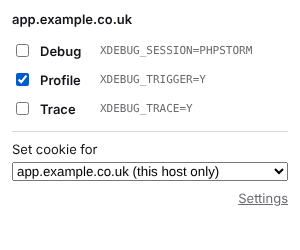
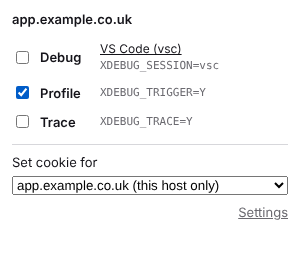
IDE presets for XDEBUG_SESSION, VS Code (vsc) by default
- XDEBUG_SESSION value is the IDE key: presets VS Code (vsc, default
  php.debug.ideKey of vscode-php-debug), PhpStorm, NetBeans, Eclipse,
  MacGDBp, or a custom key
- options page opens after install with "Choose your IDE" block
- popup shows the selected IDE with a link to settings
- hints: xdebug.trigger_value may be a comma separated list (Xdebug 3.1+)

Claude-Session: https://claude.ai/code/session_011ZZMU6eeKUpne5HfQBAxoT

diff --git a/options.js b/options.js
@@ -13,7 +13,16 @@ async function saveOptions(e) {
     };
     for (let trigger of TRIGGERS) {
         options[trigger.key] = document.querySelector(".trigger-name[data-key=" + trigger.key + "]").value.trim();
-        options[trigger.key + '_value'] = document.querySelector(".trigger-value[data-key=" + trigger.key + "]").value.trim();
+        let value = document.querySelector(".trigger-value[data-key=" + trigger.key + "]").value.trim();
+        let ide = document.querySelector(".trigger-ide[data-key=" + trigger.key + "]");
+        if (trigger.ide && ide.value) {
+            // Preset selected, custom input is ignored
+            value = ide.value;
+        }
+        options[trigger.key + '_value'] = value;
+        if (trigger.ide) {
+            options[IDE_CHOSEN_KEY] = true;
+        }
     }
     console.debug(OPTIONS_LOG_PREFIX, 'saving', options);
 
@@ -32,7 +41,9 @@ async function restoreOptions() {
     for (let trigger of triggers) {
         let rows = template.content.cloneNode(true);
         rows.querySelector(".trigger-name-label").textContent = trigger.label + ' cookie name (usually: ' + trigger.defaultName + ')';
-        rows.querySelector(".trigger-value-label").textContent = trigger.label + ' cookie value (must match xdebug.trigger_value, default: ' + trigger.defaultValue + ')';
+        rows.querySelector(".trigger-value-label").textContent = trigger.ide
+            ? 'Custom IDE key (must match xdebug.trigger_value if it is set)'
+            : trigger.label + ' cookie value (must match one of xdebug.trigger_value values if it is set, default: ' + trigger.defaultValue + ')';
         let name = rows.querySelector(".trigger-name");
         let value = rows.querySelector(".trigger-value");
         name.dataset.key = value.dataset.key = trigger.key;
@@ -40,13 +51,44 @@ async function restoreOptions() {
         value.placeholder = trigger.defaultValue;
         name.value = trigger.name;
         value.value = trigger.value;
+        if (trigger.ide) {
+            setupIdeSelect(rows, trigger);
+        }
         container.appendChild(rows);
     }
+
+    let config = await api.storage.sync.get(IDE_CHOSEN_KEY);
+    document.querySelector(".welcome-row").hidden = !!config[IDE_CHOSEN_KEY];
 
     document.querySelector(".cookie-XDEBUG_PROFILE-on-color[value="+ colors.on +"]").checked = true;
     document.querySelector(".cookie-XDEBUG_PROFILE-off-color[value="+ colors.off +"]").checked = true;
 
     await renderPermission();
+}
+
+// IDE presets select; "Custom key" shows the text input for the value
+function setupIdeSelect(rows, trigger) {
+    let select = rows.querySelector(".trigger-ide");
+    let valueRow = rows.querySelector(".trigger-value-row");
+    select.dataset.key = trigger.key;
+    for (let preset of IDE_PRESETS) {
+        select.appendChild(new Option(preset.label + ' (' + preset.key + ')', preset.key));
+    }
+    select.appendChild(new Option('Custom key', ''));
+    let preset = getIdePreset(trigger.value);
+    select.value = preset ? preset.key : '';
+    rows.querySelector(".ide-row").hidden = false;
+    rows.querySelector(".ide-hint-row").hidden = false;
+    valueRow.hidden = !!select.value;
+    select.addEventListener("change", function() {
+        console.debug(OPTIONS_LOG_PREFIX, 'IDE selected:', select.value || '(custom)');
+        valueRow.hidden = !!select.value;
+        if (!select.value) {
+            let input = valueRow.querySelector(".trigger-value");
+            input.placeholder = 'e.g. VSCODE';
+            input.focus();
+        }
+    });
 }
 
 async function renderPermission() {
@@ -65,6 +107,7 @@ async function onGrantClick() {
 }
 
 function showSuccess() {
+    document.querySelector(".welcome-row").hidden = true;
     let messageClass = document.querySelector(".saved-successfully").classList;
 
     messageClass.add(visibilityClass);

diff --git a/common.js b/common.js
@@ -7,13 +7,35 @@ const IS_FIREFOX = typeof api.runtime.getBrowserInfo === 'function';
 
 // Supported Xdebug triggers. Storage keys of PROFILE are the same as in old versions.
 const TRIGGERS = [
-    { id: 'debug', label: 'Debug', badge: 'D', key: 'cookie_XDEBUG_SESSION', defaultName: 'XDEBUG_SESSION', defaultValue: 'PHPSTORM' },
+    // XDEBUG_SESSION value is passed to the IDE as IDE key (matters only for DBGp proxy or picky IDEs)
+    { id: 'debug', label: 'Debug', badge: 'D', key: 'cookie_XDEBUG_SESSION', defaultName: 'XDEBUG_SESSION', defaultValue: 'vsc', ide: true },
     { id: 'profile', label: 'Profile', badge: 'P', key: 'cookie_XDEBUG_PROFILE', defaultName: 'XDEBUG_PROFILE', defaultValue: 'Y' },
     { id: 'trace', label: 'Trace', badge: 'T', key: 'cookie_XDEBUG_TRACE', defaultName: 'XDEBUG_TRACE', defaultValue: 'Y' }
 ];
 const DEFAULT_ON_COLOR = 'red';
 const DEFAULT_OFF_COLOR = 'light';
 const ALL_URLS = { origins: ['<all_urls>'] };
+// Default IDE keys: VS Code - php.debug.ideKey of xdebug/vscode-php-debug,
+// others - as in Xdebug helper extension. Any other value is a custom key.
+const IDE_PRESETS = [
+    { label: 'VS Code', key: 'vsc' },
+    { label: 'PhpStorm', key: 'PHPSTORM' },
+    { label: 'NetBeans', key: 'netbeans-xdebug' },
+    { label: 'Eclipse', key: 'XDEBUG_ECLIPSE' },
+    { label: 'MacGDBp', key: 'macgdbp' }
+];
+// Set when the user has chosen the IDE on the options page (welcome block is shown until then)
+const IDE_CHOSEN_KEY = 'ide_chosen';
+
+function getIdePreset(key) {
+    return IDE_PRESETS.find(preset => preset.key === key) || null;
+}
+
+// "VS Code (vsc)" or "custom key (VSCODE)"
+function getIdeLabel(key) {
+    let preset = getIdePreset(key);
+    return (preset ? preset.label : 'custom key') + ' (' + key + ')';
+}
 
 function log(...args) {
     console.debug(LOG_PREFIX, ...args);

diff --git a/options.html b/options.html
@@ -6,6 +6,11 @@
         <link href="options.css" rel="stylesheet">
     </head>
 <body>
+    <div class="welcome-row" hidden>
+        <strong>Choose your IDE</strong> for step debugging below and press Save.
+        The value of the XDEBUG_SESSION cookie is passed to the IDE as IDE key.
+    </div>
+
     <div class="permission-row" hidden>
         The addon needs access to sites to manage cookies.
         <button type="button" class="grant">Grant access</button>
@@ -70,7 +75,18 @@
             <label class="input-label trigger-name-label"></label>
             <input type="text" class="trigger-name">
         </div>
-        <div class="form-row">
+        <div class="form-row ide-row" hidden>
+            <label class="input-label">IDE</label>
+            <select class="trigger-ide"></select>
+        </div>
+        <div class="form-row ide-hint-row" hidden>
+            <span class="hint">
+                Without DBGp proxy and xdebug.trigger_value any IDE key works.
+                With DBGp proxy it must match the key of your IDE
+                (VS Code: php.debug.ideKey setting, default "vsc").
+            </span>
+        </div>
+        <div class="form-row trigger-value-row">
             <label class="input-label trigger-value-label"></label>
             <input type="text" class="trigger-value">
         </div>

diff --git a/popup.js b/popup.js
@@ -37,6 +37,13 @@ async function render() {
         checkbox.addEventListener('change', onTriggerChange);
         row.querySelector('.trigger-label').textContent = trigger.label;
         row.querySelector('.trigger-cookie').textContent = trigger.name + '=' + trigger.value;
+        if (trigger.ide) {
+            let ide = row.querySelector('.trigger-ide');
+            ide.hidden = false;
+            ide.textContent = getIdeLabel(trigger.value);
+            ide.title = 'Change IDE in settings';
+            ide.addEventListener('click', openOptions);
+        }
         container.appendChild(row);
     }
 
@@ -95,11 +102,13 @@ async function onGrantClick() {
 
 document.querySelector('.scope').addEventListener('change', onScopeChange);
 document.querySelector('.grant').addEventListener('click', onGrantClick);
-document.querySelector('.open-options').addEventListener('click', function(e) {
+function openOptions(e) {
     e.preventDefault();
     api.runtime.openOptionsPage();
     window.close();
-});
+}
+
+document.querySelector('.open-options').addEventListener('click', openOptions);
 
 render().catch(err => {
     logError('popup: render failed', err);

diff --git a/options.css b/options.css
@@ -89,7 +89,7 @@ input[type=radio],
     margin-top: var(--gutter-size);
 }
 
-.triggers .form-row:nth-child(2n+1):not(:first-child) {
+.triggers .form-row:has(.trigger-name):not(:first-child) {
     margin-top: calc(3 * var(--gutter-size));
 }
 
@@ -107,4 +107,23 @@ input[type=radio],
 
 [hidden] {
     display: none !important;
+}
+
+.welcome-row {
+    margin-bottom: 15px;
+    padding: 10px;
+    border: 1px solid #16a085;
+    border-radius: 3px;
+}
+
+.form-row > select {
+    margin: 0 var(--gutter-size);
+    height: var(--input-height);
+    flex: 1;
+}
+
+.form-row > .hint {
+    margin-left: calc(var(--label-width) + 2 * var(--gutter-size));
+    font-size: 0.85rem;
+    opacity: 0.75;
 }

diff --git a/background.js b/background.js
@@ -174,7 +174,8 @@ async function onCommand(command) {
 // Firefox MV3 treats host permissions as optional: open options with "Grant access" button if needed
 async function onInstalled(details) {
     log('installed:', details.reason);
-    if (!await hasHostPermission()) {
+    // On first install the options page asks to choose the IDE
+    if (details.reason === 'install' || !await hasHostPermission()) {
         api.runtime.openOptionsPage();
     }
     await updateActiveTabs();

diff --git a/popup.html b/popup.html
@@ -33,7 +33,10 @@
         <label class="trigger">
             <input type="checkbox">
             <span class="trigger-label"></span>
-            <span class="trigger-cookie"></span>
+            <span class="trigger-info">
+                <a href="#" class="trigger-ide" hidden></a>
+                <span class="trigger-cookie"></span>
+            </span>
         </label>
     </template>
 

diff --git a/popup.css b/popup.css
@@ -45,6 +45,17 @@ body {
     min-width: 52px;
 }
 
+.trigger-info {
+    display: flex;
+    flex-direction: column;
+    min-width: 0;
+}
+
+.trigger-ide {
+    color: var(--text);
+    font-size: 12px;
+}
+
 .trigger-cookie {
     color: var(--muted);
     font-family: monospace;

diff --git a/README.md b/README.md
@@ -7,7 +7,7 @@ The toolbar popup toggles Xdebug trigger cookies for the current site:
 
 | Trigger | Cookie (default) | Xdebug mode | Badge |
 |---|---|---|---|
-| Debug | `XDEBUG_SESSION=PHPSTORM` | `debug` | D |
+| Debug | `XDEBUG_SESSION=vsc` (IDE key) | `debug` | D |
 | Profile | `XDEBUG_PROFILE=Y` | `profile` | P |
 | Trace | `XDEBUG_TRACE=Y` | `trace` | T |
 
@@ -59,8 +59,14 @@ Open the generated `cachegrind.out.*` files in KCachegrind / QCachegrind.
 
 ## Options
 
-- cookie name and value for every trigger (value must match `xdebug.trigger_value` if it is set;
-  `XDEBUG_SESSION` value is the IDE key);
+- IDE for step debugging: the `XDEBUG_SESSION` value is passed to the IDE as IDE key.
+  Presets: VS Code `vsc` (default, `php.debug.ideKey` of the PHP Debug extension),
+  PhpStorm `PHPSTORM`, NetBeans `netbeans-xdebug`, Eclipse `XDEBUG_ECLIPSE`, MacGDBp `macgdbp`,
+  or a custom key (e.g. `VSCODE`). Without DBGp proxy and `xdebug.trigger_value` any key works;
+  with DBGp proxy it must match the key configured in your IDE.
+  The options page asks to choose the IDE after installation;
+- cookie name and value for every trigger (value must match one of `xdebug.trigger_value`
+  values if it is set, since Xdebug 3.1 it can be a comma separated list);
 - icon colors for "on" and "off" states.
 
 After renaming a cookie in options, cookies with the old name/value are removed from all sites.
